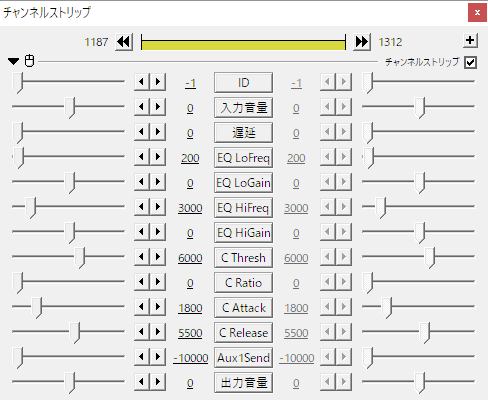
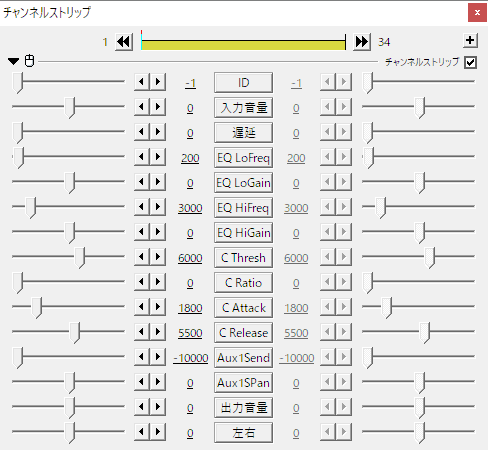
implement panner

diff --git a/src/docs/audio.md b/src/docs/audio.md
@@ -30,7 +30,9 @@ PSDToolKit では `チャンネルストリップ` / `Aux1 チャンネルスト
 `C Attack`|コンプレッサーのアタック（どのぐらいの速さで音量が圧縮されるか）を指定します。
 `C Release`|コンプレッサーのリリース（どのぐらいの速さで音量が戻るか）を指定します。
 `Aux1Send`|`Aux1 チャンネルストリップ`に送る音の大きさを指定します。
+`Aux1SPan`|`Aux1 チャンネルストリップ`に送る音の左右の定位を指定します。
 `出力音量`|エフェクターに通した後の音量を指定します。
+`左右`|左右の定位を指定します。
 
 全ての設定は初期値では何も行わないようになっています。
 
